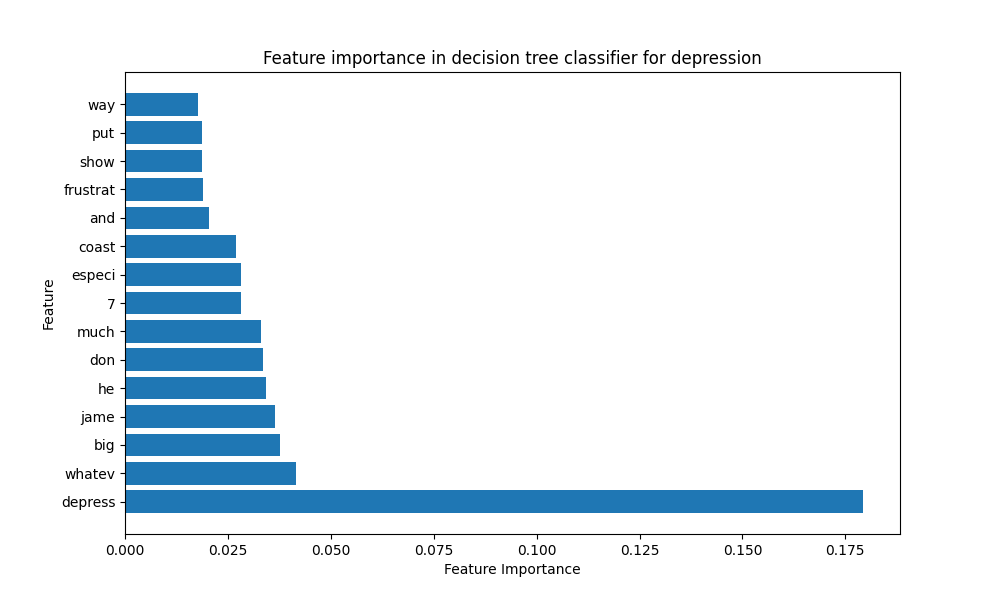
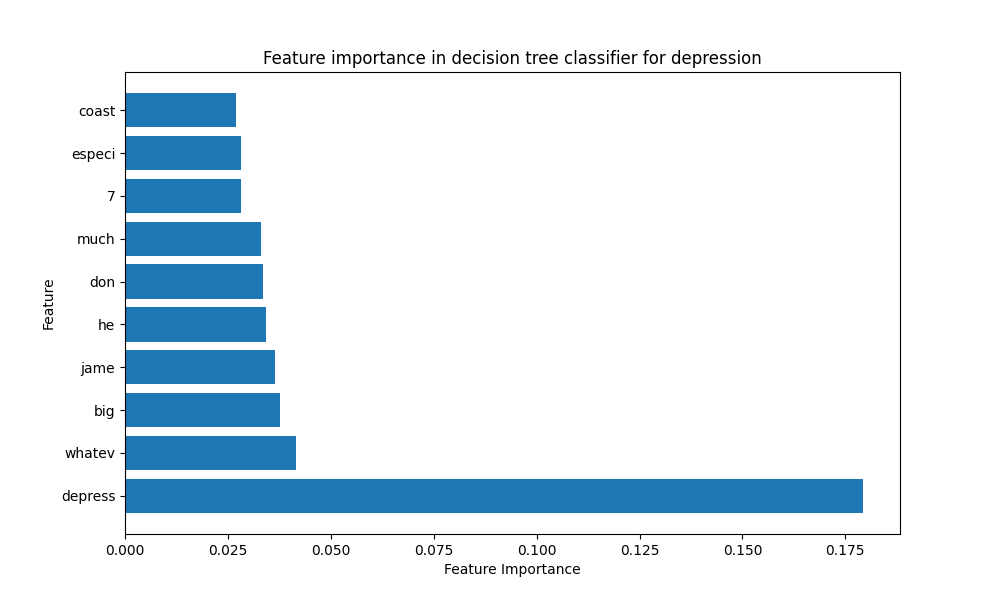
finish running five labels for decision tree

Changed region(s): [[0.062, 0.15, 0.868, 0.87], [0.062, 0.54, 0.124, 0.57]]

diff --git a/decision_tree.py b/decision_tree.py
@@ -13,7 +13,7 @@ from sklearn import metrics
 
 # define some global variables, the labels we want to check
 # and the evaluation metrics
-label_names = ['depression']
+label_names = ['frustration']
 
 metric_list = ["accuracy", "f1_score", "auroc",
                 "precision", "sensitivity", "specificity"]
@@ -164,6 +164,7 @@ def feature_importance(label='anxiety'):
             dic_features.append(i)
             print(i)
             print(dic_feature)
+    # np.delete(sorted_idx, 3)
     # plot impurity based importance for the tuned model
     plt.figure(figsize=(10, 6))
     plt.barh(range(10), feature_importance[sorted_idx[:10]], align="center")
